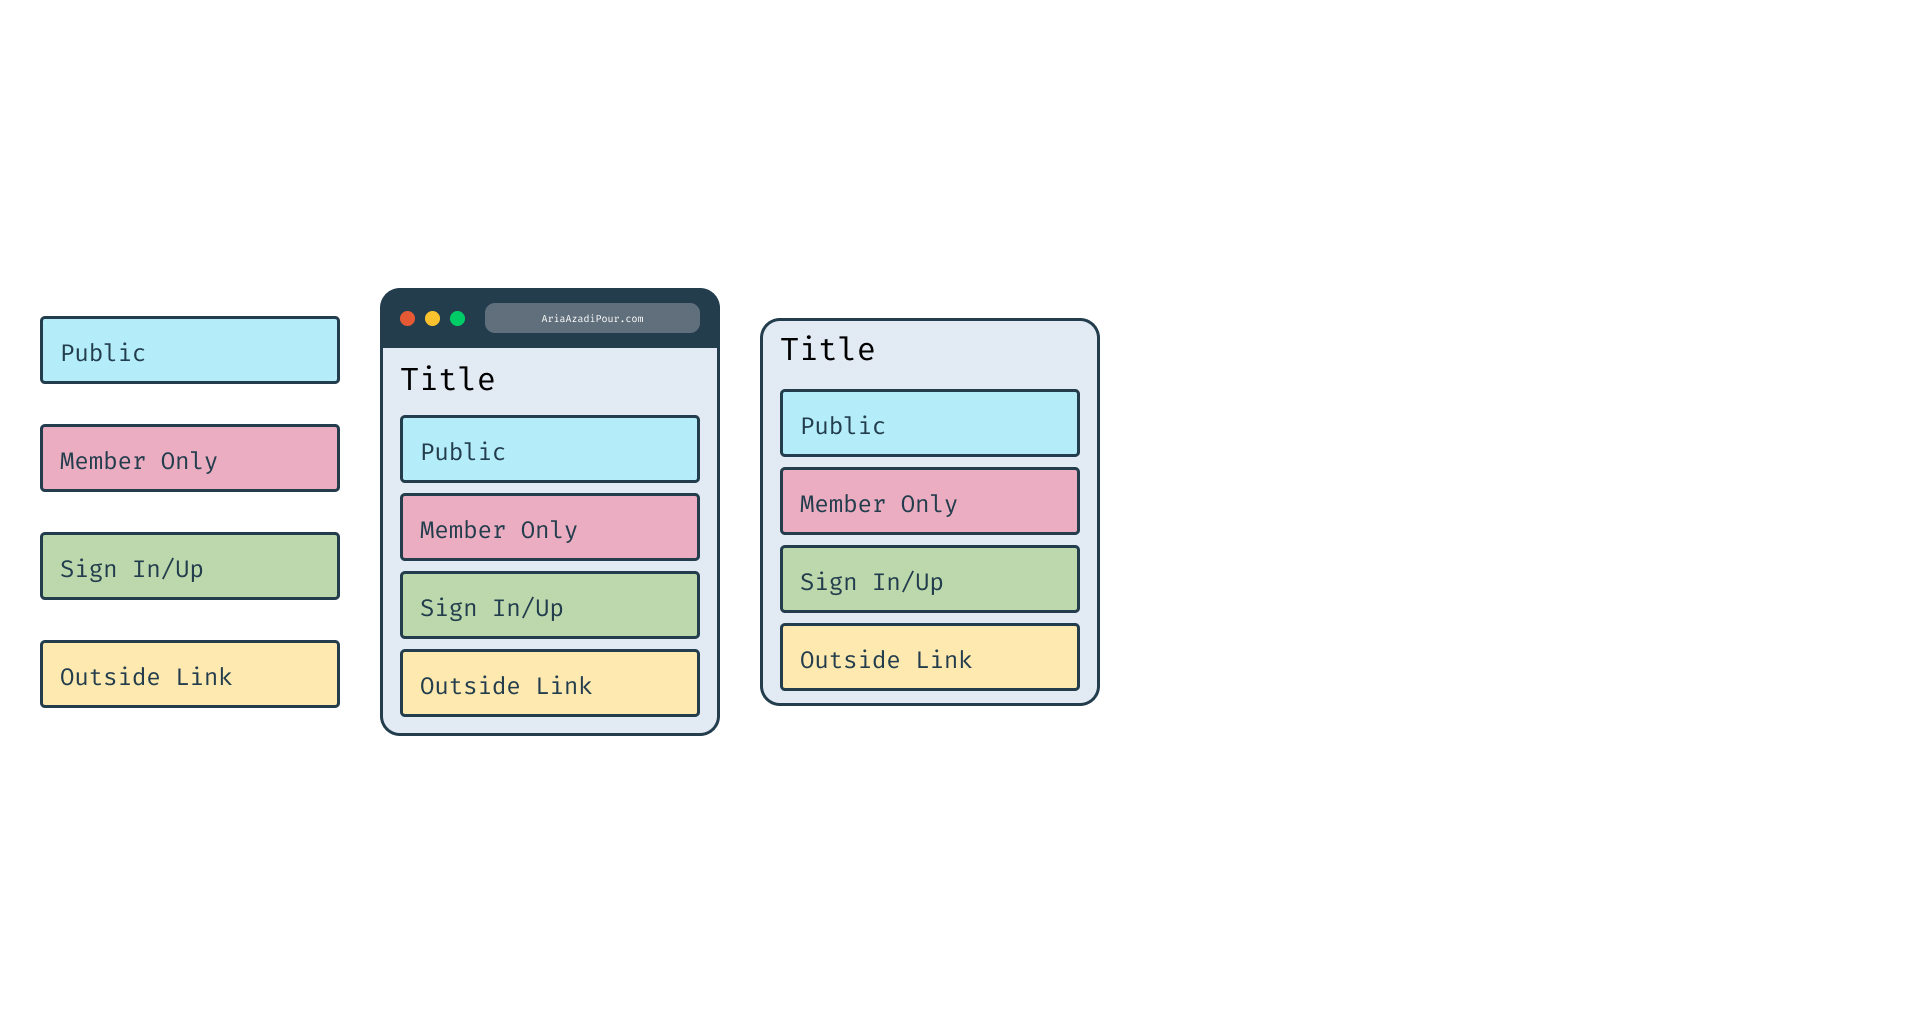
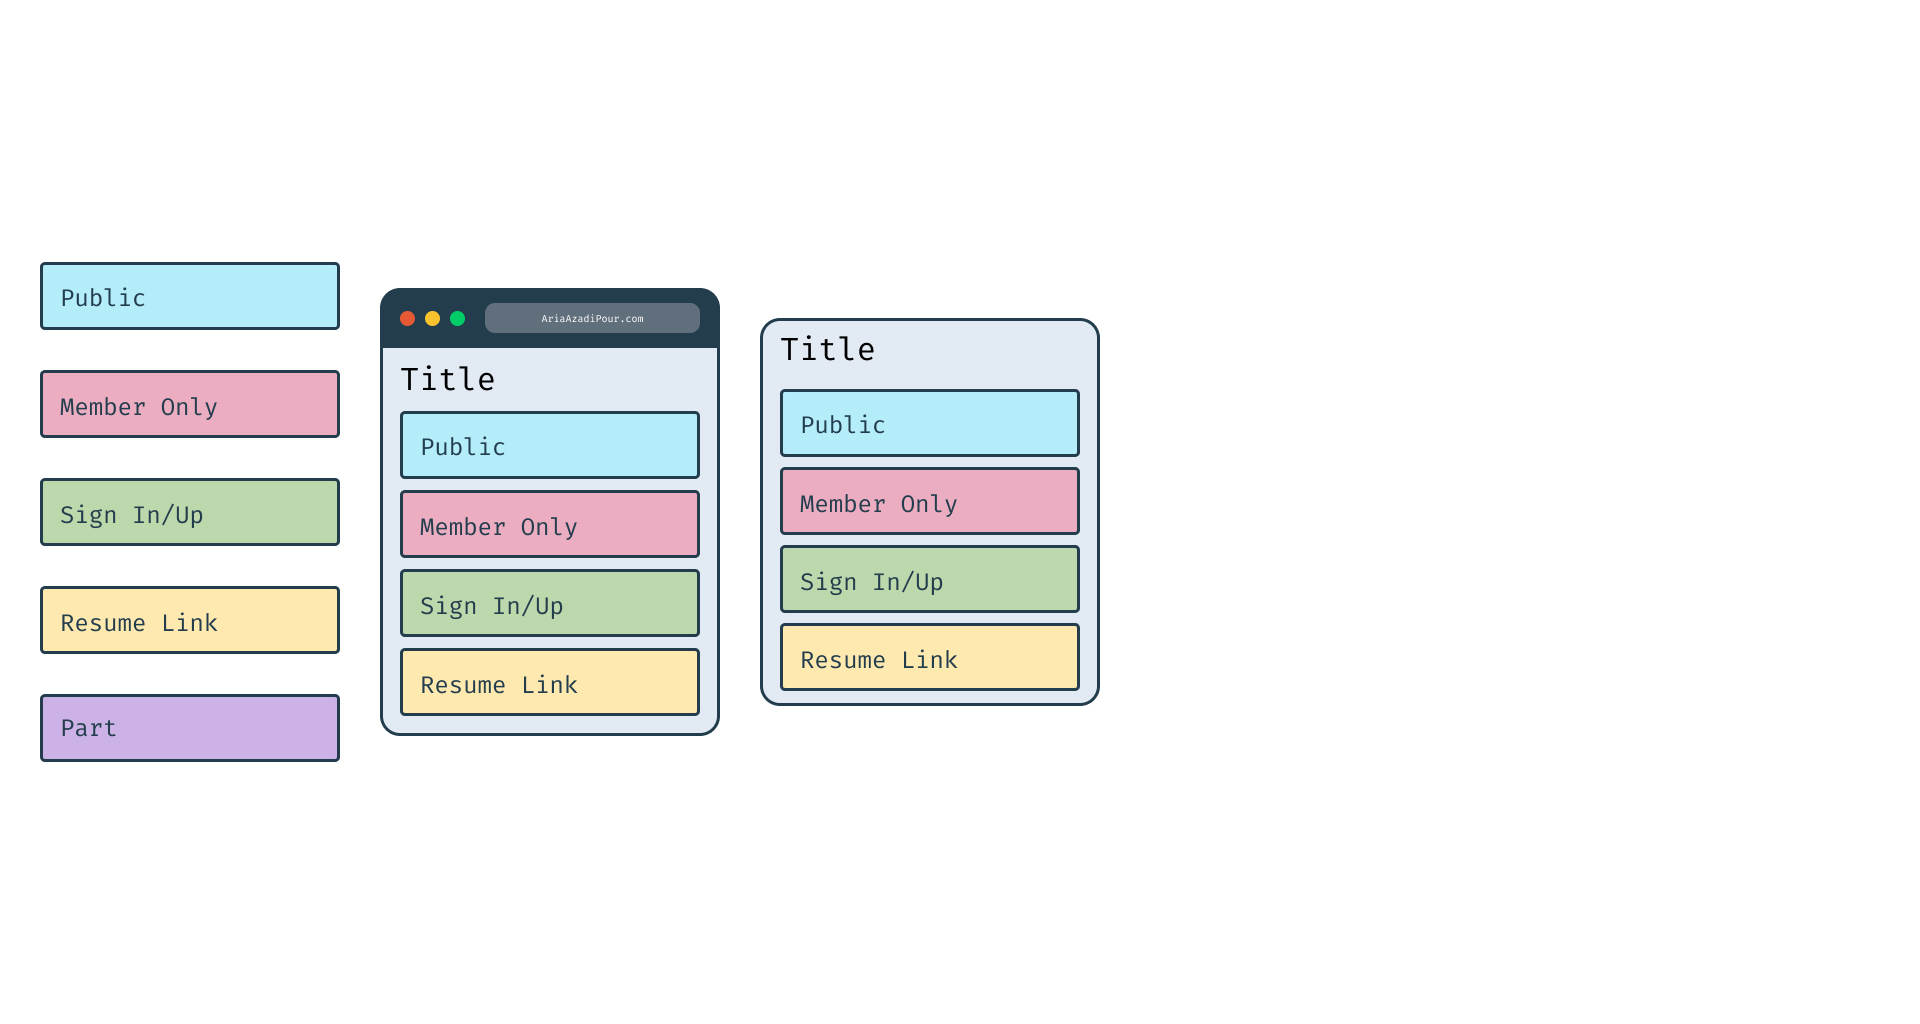
site map

Changed region(s): [[0.0, 0.25, 0.375, 0.75], [0.4062, 0.625, 0.5, 0.6562], [0.2188, 0.6562, 0.3125, 0.6875]]

diff --git a/sitemap/README.md b/sitemap/README.md
@@ -1,6 +1,9 @@
 ## DevAddict SiteMap
 sitemaps for DevAddict
 
+## SiteMap
+![Site Map](./site-map_site-map.jpeg)
+
 ## SiteMap Components
 ![Site Map Components](./site-map_components.jpeg)
 
